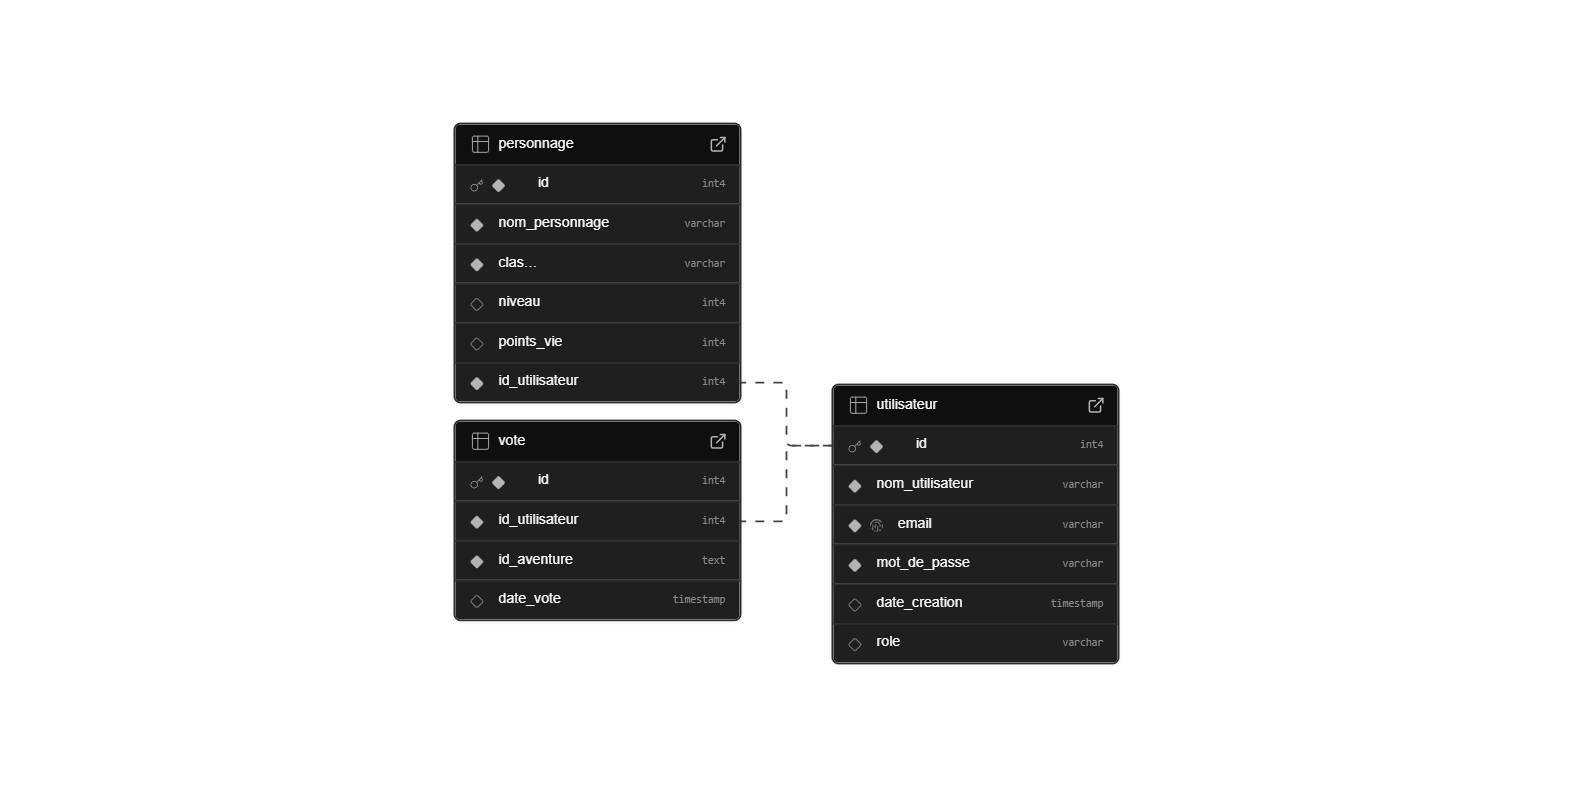
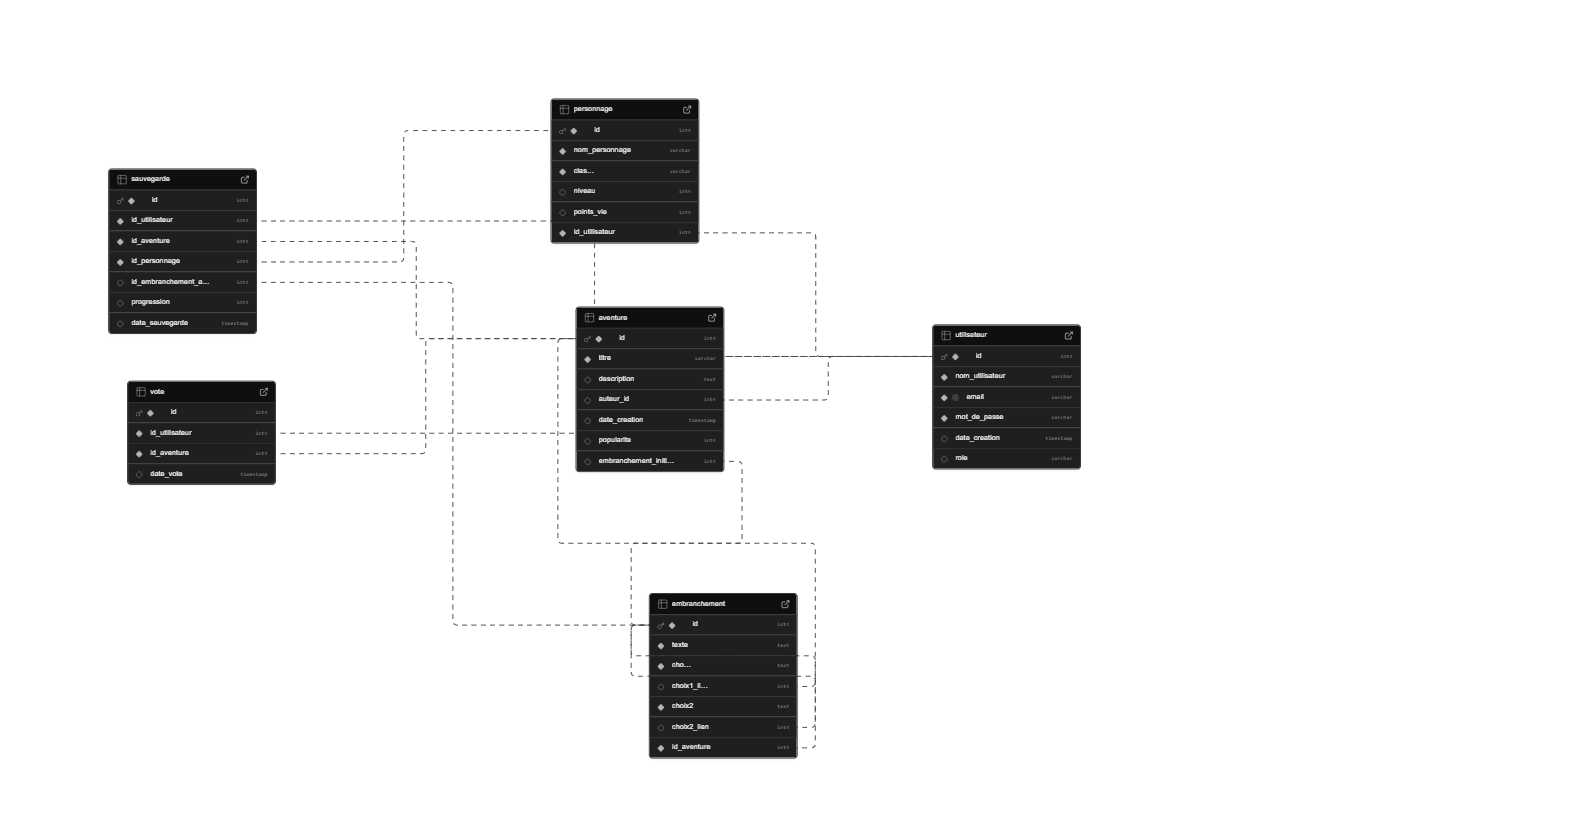
MAJ des documents et ajout de confirmation de mdp

Changed region(s): [[0.2804, 0.122, 0.7165, 0.9454], [0.0623, 0.183, 0.1869, 0.4269], [0.0623, 0.4574, 0.1869, 0.6099]]

diff --git a/components/auth/RegisterForm.tsx b/components/auth/RegisterForm.tsx
@@ -14,6 +14,7 @@ export default function RegisterForm() {
     username: "",
     email: "",
     password: "",
+    confirmPassword: "",
   });
   const [isLoading, setIsLoading] = useState(false);
   const [error, setError] = useState("");
@@ -31,14 +32,26 @@ export default function RegisterForm() {
     setIsLoading(true);
     setError("");
     setSuccess("");
+
+    // Verifier que les mots de passe correspondent
+    if (formData.password !== formData.confirmPassword) {
+      setError("Les mots de passe ne correspondent pas");
+      setIsLoading(false);
+      return;
+    }
+
+    // Verifier la longueur du mot de passe
+    if (formData.password.length < 6) {
+      setError("Le mot de passe doit contenir au moins 6 caracteres");
+      setIsLoading(false);
+      return;
+    }
     
     const result = await register(formData.username, formData.email, formData.password);
 
     if (result.success) {
-      setSuccess(result.message || "Inscription réussie ! Veuillez vérifier votre email.");
-      setTimeout(() => {
-        router.push("/login");
-      }, 2000);
+      setSuccess(result.message || "Inscription reussie !");
+      router.push("/dashboard");
     } else {
       setError(result.error || "Erreur lors de l'inscription");
       setIsLoading(false);
@@ -46,7 +59,7 @@ export default function RegisterForm() {
   };
 
   if (isLoading && !success) {
-    return <Loader fullScreen message="Création de votre compte..." />;
+    return <Loader fullScreen message="Creation de votre compte..." />;
   }
 
   return (
@@ -73,8 +86,22 @@ export default function RegisterForm() {
               />
             </div>
             <h1 className="text-2xl font-bold text-cyan-400">DreamQuest</h1>
-            <p className="text-gray-400 text-sm">Créer votre compte jeune aventurier</p>
+            <p className="text-gray-400 text-sm">Creer votre compte jeune aventurier</p>
           </div>
+
+          {/* Message d'erreur */}
+          {error && (
+            <div className="mb-4 p-3 bg-red-500/20 border border-red-500/50 rounded-lg text-red-400 text-sm">
+              {error}
+            </div>
+          )}
+
+          {/* Message de succes */}
+          {success && (
+            <div className="mb-4 p-3 bg-green-500/20 border border-green-500/50 rounded-lg text-green-400 text-sm">
+              {success}
+            </div>
+          )}
 
           <form onSubmit={handleSubmit} className="space-y-5">
             
@@ -142,7 +169,7 @@ export default function RegisterForm() {
                   id="password"
                   name="password"
                   className="w-full pl-10 pr-4 py-3 bg-[#1a1f2e] border border-gray-700 focus:border-cyan-500 rounded-lg text-white placeholder:text-gray-500 focus:outline-none focus:ring-1 focus:ring-cyan-500 transition-all text-sm"
-                  placeholder="••••••••"
+                  placeholder="Minimum 6 caracteres"
                   value={formData.password}
                   onChange={handleChange}
                   required
@@ -150,44 +177,51 @@ export default function RegisterForm() {
               </div>
             </div>
 
-            {/* Message d'erreur */}
-            {error && (
-              <div className="p-3 bg-red-500/10 border border-red-500/50 rounded-lg">
-                <p className="text-red-400 text-sm text-center">{error}</p>
+            {/* Confirm Password */}
+            <div className="space-y-2">
+              <label htmlFor="confirmPassword" className="block text-sm font-medium text-gray-400">
+                Confirmer le mot de passe
+              </label>
+              <div className="relative">
+                <div className="absolute inset-y-0 left-0 pl-3 flex items-center pointer-events-none">
+                  <svg className="w-5 h-5 text-gray-500" fill="none" viewBox="0 0 24 24" stroke="currentColor">
+                    <path strokeLinecap="round" strokeLinejoin="round" strokeWidth={2} d="M9 12l2 2 4-4m5.618-4.016A11.955 11.955 0 0112 2.944a11.955 11.955 0 01-8.618 3.04A12.02 12.02 0 003 9c0 5.591 3.824 10.29 9 11.622 5.176-1.332 9-6.03 9-11.622 0-1.042-.133-2.052-.382-3.016z" />
+                  </svg>
+                </div>
+                <input
+                  type="password"
+                  id="confirmPassword"
+                  name="confirmPassword"
+                  className="w-full pl-10 pr-4 py-3 bg-[#1a1f2e] border border-gray-700 focus:border-cyan-500 rounded-lg text-white placeholder:text-gray-500 focus:outline-none focus:ring-1 focus:ring-cyan-500 transition-all text-sm"
+                  placeholder="Confirmez votre mot de passe"
+                  value={formData.confirmPassword}
+                  onChange={handleChange}
+                  required
+                />
               </div>
-            )}
+            </div>
 
-            {/* Message de succès */}
-            {success && (
-              <div className="p-3 bg-green-500/10 border border-green-500/50 rounded-lg">
-                <p className="text-green-400 text-sm text-center">{success}</p>
-              </div>
-            )}
-
-            {/* Bouton S'inscrire */}
+            {/* Submit button */}
             <button
               type="submit"
-              disabled={isLoading}
-              className="w-full px-6 py-3 bg-gradient-to-r from-cyan-500 to-blue-500 hover:from-cyan-400 hover:to-blue-400 disabled:from-gray-500 disabled:to-gray-600 disabled:cursor-not-allowed text-white font-semibold rounded-lg transition-all duration-200 text-sm shadow-lg shadow-cyan-500/20 mt-6"
+              className="w-full py-3 bg-gradient-to-r from-cyan-500 to-blue-500 hover:from-cyan-600 hover:to-blue-600 text-white font-semibold rounded-lg transition-all duration-200 shadow-lg shadow-cyan-500/25"
             >
-              {isLoading ? "Inscription en cours..." : "S'inscrire"}
+              S&apos;inscrire
             </button>
-
-            {/* Lien connexion */}
-            <div className="text-center text-sm text-gray-400 pt-2">
-              Déjà un compte ?{" "}
-              <Link href="/login" className="text-cyan-400 hover:text-cyan-300 font-semibold transition-colors">
-                Se connecter
-              </Link>
-            </div>
           </form>
 
-          {/* Politique de confidentialité */}
-          <div className="mt-6 pt-6 border-t border-gray-800">
-            <p className="text-xs text-gray-500 text-center leading-relaxed">
-              En continuant, vous acceptez nos conditions d&apos;utilisation et notre politique de confidentialité
-            </p>
-          </div>
+          {/* Link to login */}
+          <p className="mt-6 text-center text-gray-400 text-sm">
+            Deja un compte ?{" "}
+            <Link href="/login" className="text-cyan-400 hover:text-cyan-300 font-medium">
+              Se connecter
+            </Link>
+          </p>
+
+          {/* Footer */}
+          <p className="mt-6 text-center text-gray-500 text-xs">
+            En continuant, vous acceptez nos conditions d&apos;utilisation et notre politique de confidentialite
+          </p>
         </div>
       </div>
     </div>

diff --git a/context/AuthContext.tsx b/context/AuthContext.tsx
@@ -1,9 +1,10 @@
 "use client";
 
 import { createContext, useContext, useState, useEffect, ReactNode } from 'react';
+import { supabase } from '@/lib/supabaseClient';
 
 interface User {
-  id: string;
+  id: number;
   email: string;
   username: string;
   role: string;
@@ -20,28 +21,22 @@ interface AuthContextType {
 
 const AuthContext = createContext<AuthContextType | undefined>(undefined);
 
+const USER_STORAGE_KEY = 'dreamquest_user';
+
 export function AuthProvider({ children }: { children: ReactNode }) {
   const [user, setUser] = useState<User | null>(null);
   const [loading, setLoading] = useState(true);
 
   const checkAuth = async () => {
     try {
-      const response = await fetch('/api/auth/me', {
-        credentials: 'include',
-      });
-      
-      if (response.ok) {
-        const data = await response.json();
-        if (data.authenticated) {
-          setUser(data.user);
-        } else {
-          setUser(null);
-        }
+      const storedUser = localStorage.getItem(USER_STORAGE_KEY);
+      if (storedUser) {
+        setUser(JSON.parse(storedUser));
       } else {
         setUser(null);
       }
     } catch (error) {
-      console.error('Erreur vérification auth:', error);
+      console.error('Erreur verification auth:', error);
       setUser(null);
     } finally {
       setLoading(false);
@@ -54,21 +49,31 @@ export function AuthProvider({ children }: { children: ReactNode }) {
 
   const login = async (email: string, password: string) => {
     try {
-      const response = await fetch('/api/auth/login', {
-        method: 'POST',
-        headers: { 'Content-Type': 'application/json' },
-        credentials: 'include',
-        body: JSON.stringify({ email, password }),
-      });
+      const { data: userData, error } = await supabase
+        .from('utilisateur')
+        .select('id, nom_utilisateur, email, mot_de_passe, role')
+        .eq('email', email)
+        .single();
 
-      const data = await response.json();
-
-      if (response.ok && data.success) {
-        setUser(data.user);
-        return { success: true };
+      if (error || !userData) {
+        return { success: false, error: 'Email ou mot de passe incorrect' };
       }
 
-      return { success: false, error: data.error || 'Erreur de connexion' };
+      if (userData.mot_de_passe !== password) {
+        return { success: false, error: 'Email ou mot de passe incorrect' };
+      }
+
+      const loggedUser: User = {
+        id: userData.id,
+        username: userData.nom_utilisateur,
+        email: userData.email,
+        role: userData.role
+      };
+
+      localStorage.setItem(USER_STORAGE_KEY, JSON.stringify(loggedUser));
+      setUser(loggedUser);
+
+      return { success: true };
     } catch (error) {
       console.error('Erreur login:', error);
       return { success: false, error: 'Erreur de connexion' };
@@ -77,23 +82,45 @@ export function AuthProvider({ children }: { children: ReactNode }) {
 
   const register = async (username: string, email: string, password: string) => {
     try {
-      const response = await fetch('/api/auth/register', {
-        method: 'POST',
-        headers: { 'Content-Type': 'application/json' },
-        credentials: 'include',
-        body: JSON.stringify({ username, email, password }),
-      });
+      // Verifier si l'email existe deja
+      const { data: existingUser } = await supabase
+        .from('utilisateur')
+        .select('id')
+        .eq('email', email)
+        .maybeSingle();
 
-      const data = await response.json();
-
-      if (response.ok && data.success) {
-        if (data.user) {
-          setUser(data.user);
-        }
-        return { success: true, message: data.message };
+      if (existingUser) {
+        return { success: false, error: 'Cet email est deja utilise' };
       }
 
-      return { success: false, error: data.error || 'Erreur d\'inscription' };
+      // Creer l'utilisateur
+      const { data: newUser, error } = await supabase
+        .from('utilisateur')
+        .insert({
+          nom_utilisateur: username,
+          email: email,
+          mot_de_passe: password,
+          role: 'joueur'
+        })
+        .select('id, nom_utilisateur, email, role')
+        .single();
+
+      if (error) {
+        console.error('Erreur Supabase:', error);
+        return { success: false, error: 'Erreur lors de la creation du compte' };
+      }
+
+      const registeredUser: User = {
+        id: newUser.id,
+        username: newUser.nom_utilisateur,
+        email: newUser.email,
+        role: newUser.role
+      };
+
+      localStorage.setItem(USER_STORAGE_KEY, JSON.stringify(registeredUser));
+      setUser(registeredUser);
+
+      return { success: true, message: 'Compte cree avec succes' };
     } catch (error) {
       console.error('Erreur register:', error);
       return { success: false, error: 'Erreur d\'inscription' };
@@ -102,10 +129,7 @@ export function AuthProvider({ children }: { children: ReactNode }) {
 
   const logout = async () => {
     try {
-      await fetch('/api/auth/logout', {
-        method: 'POST',
-        credentials: 'include',
-      });
+      localStorage.removeItem(USER_STORAGE_KEY);
       setUser(null);
     } catch (error) {
       console.error('Erreur logout:', error);
@@ -122,7 +146,7 @@ export function AuthProvider({ children }: { children: ReactNode }) {
 export function useAuthContext() {
   const context = useContext(AuthContext);
   if (context === undefined) {
-    throw new Error('useAuthContext doit être utilisé dans un AuthProvider');
+    throw new Error('useAuthContext doit etre utilise dans un AuthProvider');
   }
   return context;
 }
